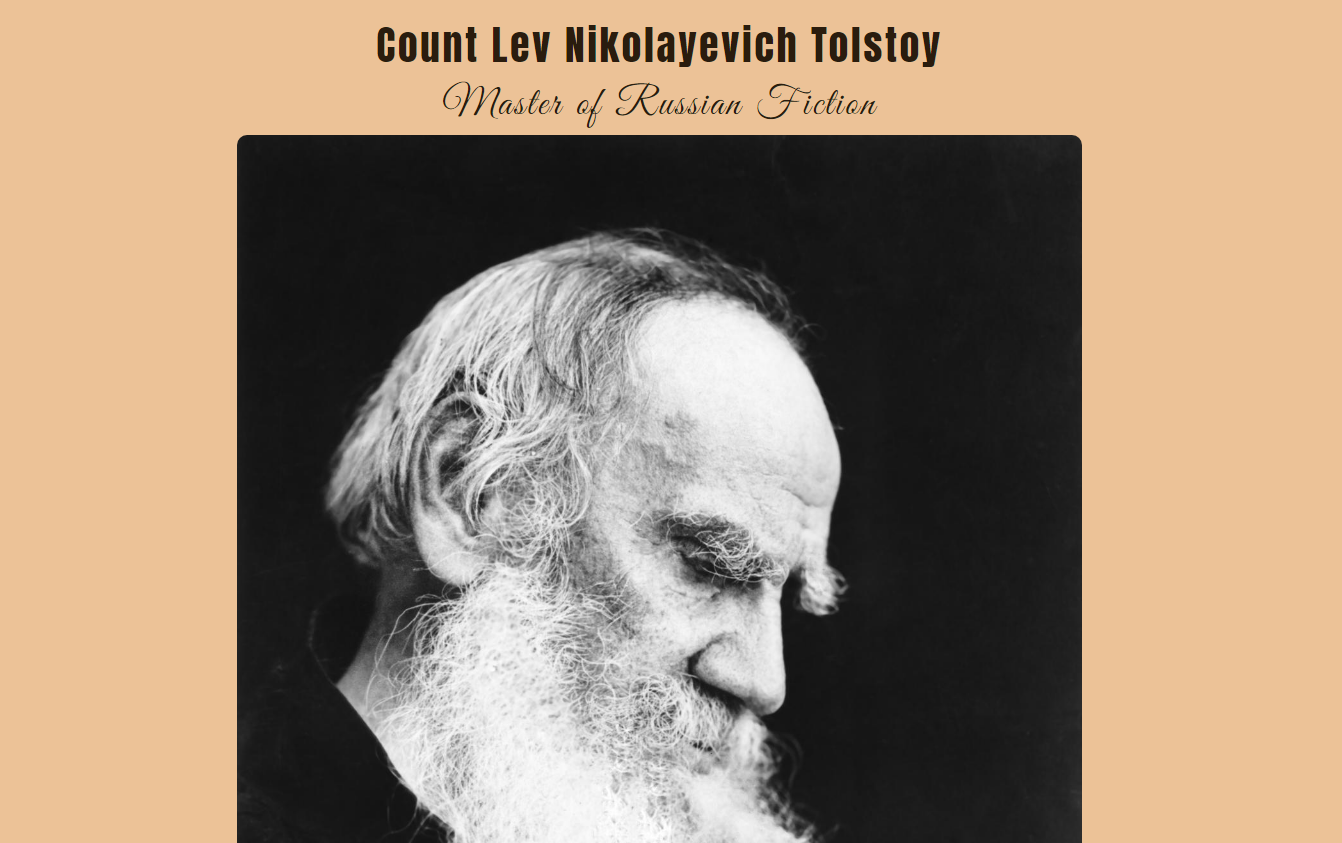
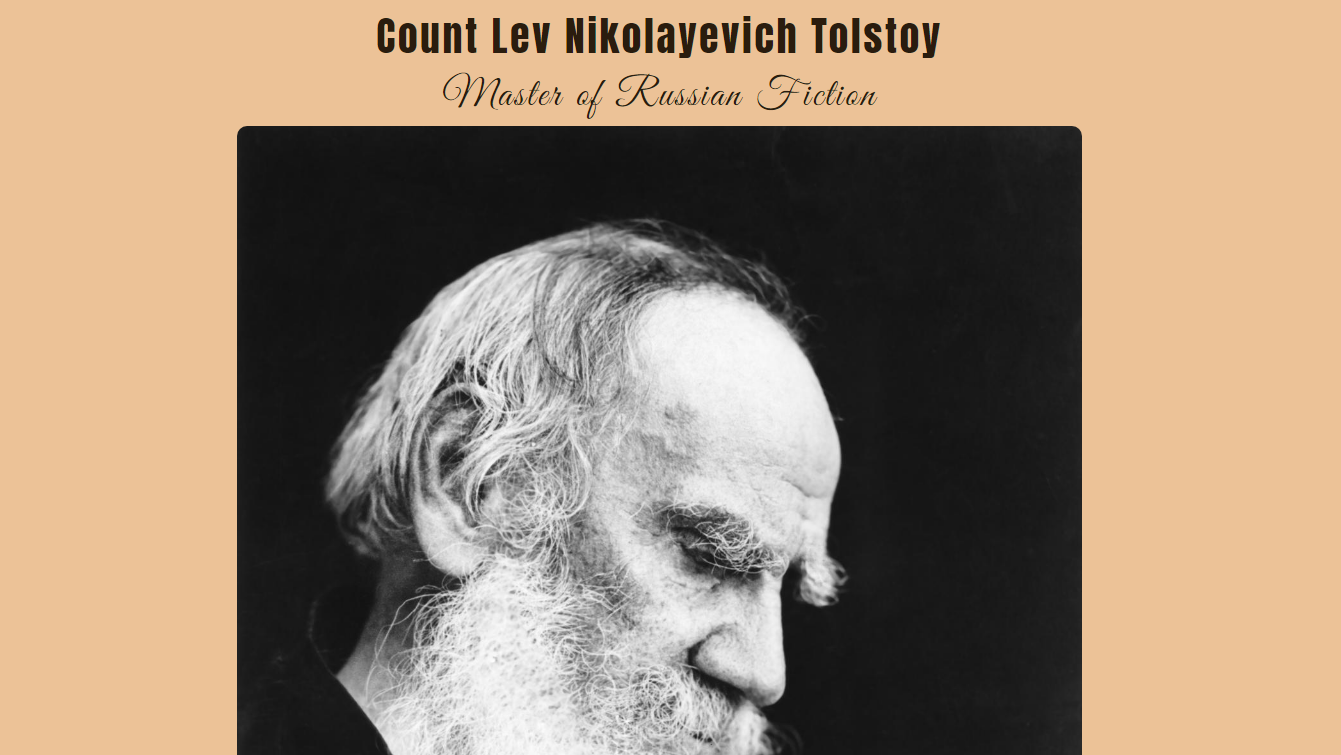
improved styling and images, added navbar

Changed region(s): [[0.2446, 0.2742, 0.6421, 1.0], [0.1834, 0.0, 0.8255, 0.1828]]

diff --git a/DVCHome.html b/DVCHome.html
@@ -14,11 +14,78 @@
 <div class="container-fluid">
 <header>
   <div class="jumbotron">
+    <!--Navbar should include links to Home About Contact Portfolio.
+    Links should refer to scrollable page locations.-->
+    <nav class="navbar navbar-default navbar-fixed-top">
+      <ul class="nav navbar-nav">
+        <li><a href="#portfolio">Portfolio</a></li>
+        <li><a href="#contact">Contact Me</a></li>
+        <li><a href="#about">About</a></li>
+      </ul>
+    </nav>
   <h1>Dani V Cupples</h1>
-  <!--Navbar should include links to Home About Contact Portfolio.
-  Links should refer to scrollable page locations.-->
   </div>
 </header>
+<article id="portfolio">
+  <div class="row">
+    <div class="col-lg-12">
+      <h2>Portfolio</h2>
+        <p>For a full-page gallery, please click <a href="#">here</a>.</p>
+    </div>
+  </div>
+  <div class="row">
+    <!--carousel (when there are more than three) of screenshots that link to static pages with my work-->
+    <div class="col-lg-10 col-lg-offset-2 carousel slide" data-ride="carousel" id="myCarousel">
+      <!-- Indicators -->
+      <ol class="carousel-indicators">
+        <li data-target="#myCarousel" data-slide-to="0" class="active"></li>
+        <li data-target="#myCarousel" data-slide-to="1"></li>
+        <li data-target="#myCarousel" data-slide-to="2"></li>
+      </ol>
+
+      <!-- Wrapper for slides -->
+      <div class="carousel-inner">
+        <div class="item active">
+          <a href="https://codepen.io/danivcupples/full/BZpYjZ/" target="_blank"><img src="localweather.png" alt="local weather"></a>
+        </div>
+
+        <div class="item">
+          <a href="https://codepen.io/danivcupples/full/EXVygB/" target="_blank"><img src="randomquote.png" alt="random quote generator"></a>
+        </div>
+
+        <div class="item">
+          <a href="https://codepen.io/danivcupples/full/XReXwG/" target="_blank"><img src="tolstoytribute.png" alt="tribute page to Leo Tolstoy"></a>
+        </div>
+      </div>
+
+      <!-- Left and rigth controls -->
+      <a class="left carousel-control" href="#myCarousel" data-slide="prev">
+        <span class="glyphicon glyphicon-chevron-left"></span>
+        <span class="sr-only">Previous</span>
+      </a>
+      <a class="right carousel-control" href="#myCarousel" data-slide="next">
+        <span class="glyphicon glyphicon-chevron-right"></span>
+        <span class="sr-only">Next</span>
+      </a>
+    </div>
+  </div>
+</article>
+<article id="contact">
+  <div class="row">
+    <div class="col-lg-12">
+      <h2>Contact Me</h2>
+        <p>If you're interested in my work or just want to reach out, please use the contact form below.</p>
+        <form id="contact-form">
+          <p>Name: <input type="text" name="name" placeholder="First and last name">
+          Email Address: <input type="email" name="email" placeholder="you@yourdomain.com" required>
+          Phone Number: <input type="tel" name="phone" placeholder="555-867-5309"></p>
+          <p>Best Contact Method: <input type="radio" name="contact-method" value="email" checked> Email
+            <input type="radio" name="contact-method" value="phone"> Phone
+          <input type="submit"></p>
+        </form>
+    </div>
+  </div>
+</article>
 <article id="about">
   <div class="row">
     <div class="col-lg-8">
@@ -36,66 +103,7 @@
     </div>
   </div>
 </article>
-<article>
-  <div class="row">
-    <div class="col-lg-12">
-      <h2>Contact Me</h2>
-        <p>If you're interested in my work or just want to reach out, please use the contact form below.</p>
-        <form id="contact">
-          <p>Name: <input type="text" name="name" placeholder="First and last name">
-          Email Address: <input type="email" name="email" placeholder="you@yourdomain.com" required>
-          Phone Number: <input type="tel" name="phone" placeholder="555-867-5309"></p>
-          <p>Best Contact Method: <input type="radio" name="contact-method" value="email" checked> Email
-            <input type="radio" name="contact-method" value="phone"> Phone
-          <input type="submit"></p>
-        </form>
-    </div>
-  </div>
-</article>
-<article id="portfolio">
-  <div class="row">
-    <div class="col-lg-12">
-      <h2>Portfolio</h2>
-        <p>For a full-page gallery, please click <a href="#">here</a>.</p>
-    </div>
-  </div>
-  <div class="row">
-    <!--carousel (when there are more than three) of screenshots that link to static pages with my work-->
-    <div class="col-lg-10 carousel slide" data-ride="carousel" id="myCarousel">
-      <!-- Indicators -->
-      <ol class="carousel-indicators">
-        <li data-target="#myCarousel" data-slide-to="0" class="active"></li>
-        <li data-target="#myCarousel" data-slide-to="1"></li>
-        <li data-target="#myCarousel" data-slide-to="2"></li>
-      </ol>
 
-      <!-- Wrapper for slides -->
-      <div class="carousel-inner">
-        <div class="item active">
-          <a href="https://codepen.io/danivcupples/full/XReXwG/" target="_blank"><img src="tolstoytribute.png" alt="tribute page to Leo Tolstoy"></a>
-        </div>
-
-        <div class="item">
-          <a href="https://codepen.io/danivcupples/full/EXVygB/" target="_blank"><img src="randomquote.png" alt="random quote generator" height="30%" width="80%"></a>
-        </div>
-
-        <div class="item">
-          <a href="#" target="_blank"><img src="#" alt="local weather" height="30%" width="80%"></a>
-        </div>
-      </div>
-
-      <!-- Left and rigth controls -->
-      <a class="left carousel-control" href="#myCarousel" data-slide="prev">
-        <span class="glyphicon glyphicon-chevron-left"></span>
-        <span class="sr-only">Previous</span>
-      </a>
-      <a class="right carousel-control" href="#myCarousel" data-slide="next">
-        <span class="glyphicon glyphicon-chevron-right"></span>
-        <span class="sr-only">Next</span>
-      </a>
-    </div>
-  </div>
-</article>
   <footer>
     <h3>Follow me</h3>
     <!--images w/links for twitter, github, freecodecamp, linkedIn-->

diff --git a/DVC.css b/DVC.css
@@ -2,16 +2,28 @@ body {
   font-family: 'Amiko', sans-serif;
   color: #0e1e31;
   background-color: #f2f1ec;
+  padding-top: 50px;
+}
+.navbar-default {
+  background: #f2f1ec;
+  color: #0e1e31;
+  font-family: 'Cormorant SC', serif;
+  /*font-weight: bold;
+  font-size: 1.5em;*/
+  letter-spacing: 2px;
+  padding: 0px 50px;
+  margin: 0px 10px;
+  border: none;
+  border-radius: 5px;
 }
 header .jumbotron {
-  background: #717a7d url('coffee1.jpg');
+  background: #717a7d;
   color: #f2f1ec;
   padding: 40px;
   font-family: 'Sacramento', cursive;
   font-size: 200%;
   text-align: center;
 }
-
 a {
   text-decoration: none;
   color: #5680ad;
@@ -25,12 +37,23 @@ article h2 {
   color: #2f455d;
   letter-spacing: 2px;
 }
+#contact {
+  margin: 3% 0%;
+}
+form input {
+  border-radius: 3px;
+  padding: 5px;
+}
 #about {
   /*background-image: url('coffee.jpg');*/
 }
 
 #portfolio {
   /*background-color: #bbbbb3;*/
+}
+.carousel {
+  width: 70%;
+  float: none;
 }
 footer {
   background-color: #717a7d;

diff --git a/DVC.js b/DVC.js
@@ -1,6 +1,6 @@
 $(document).ready(function(){
   //provide confirmation alert when submitting form
-  $("#contact").submit(function(){
+  $("#contact-form").submit(function(){
     alert("Thank you for contacting me!");
   });
 
